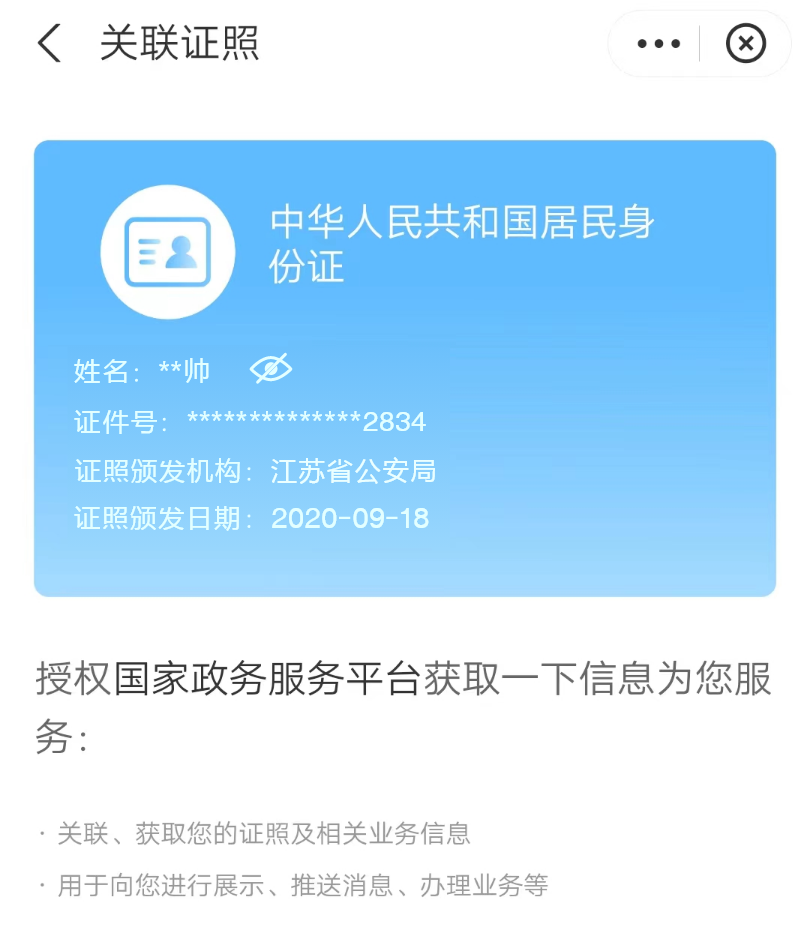
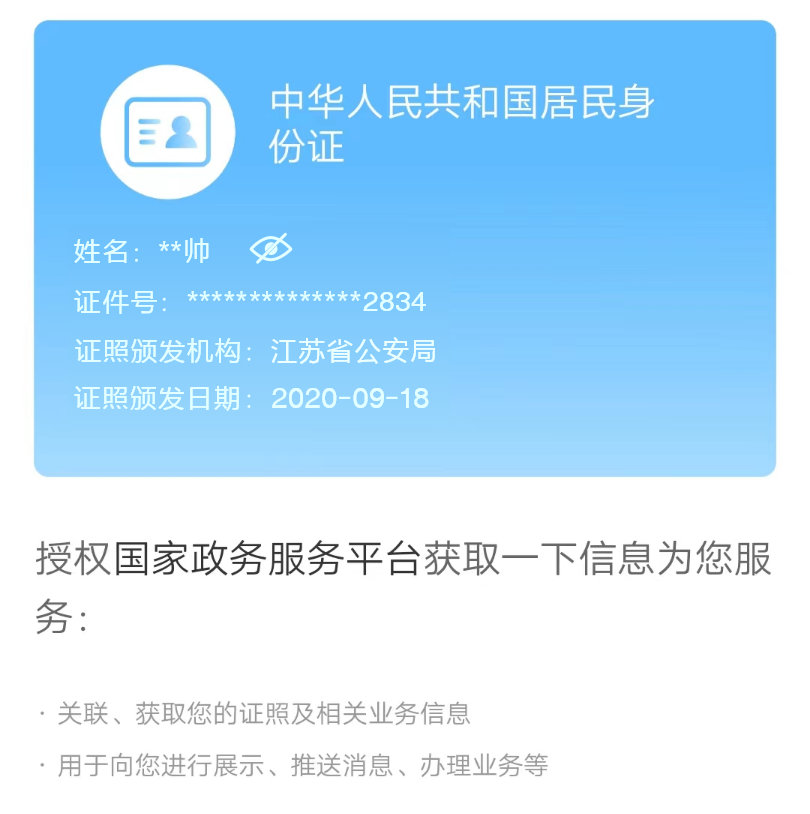
修改bug

Changed region(s): [[0.0309, 0.0, 0.9568, 0.7985], [0.0617, 0.86, 0.679, 0.9828]]

diff --git a/pages/component/relativeCertificate/relativeCertificate.vue b/pages/component/relativeCertificate/relativeCertificate.vue
@@ -27,7 +27,12 @@
 					title: '关联成功',
 					success() {
 						let selectIndex = uni.getStorageSync('selectIndex')
-						let selectArr = JSON.parse(uni.getStorageSync('selectArr')) || []
+						let selectArr
+						if (uni.getStorageSync('selectArr')) {
+							selectArr = uni.getStorageSync('selectArr')
+						} else {
+							selectArr = []
+						}
 						if (selectArr.indexOf(selectIndex) === -1) {
 							selectArr.push(selectIndex)
 						}
@@ -52,7 +57,7 @@
 		padding: 0 30rpx;
 		.img {
 			width: calc(100vw - 60rpx);
-			height: 800rpx;
+			height: 720rpx;
 		}
 		.relative-btn {
 			margin-bottom: 30rpx;
